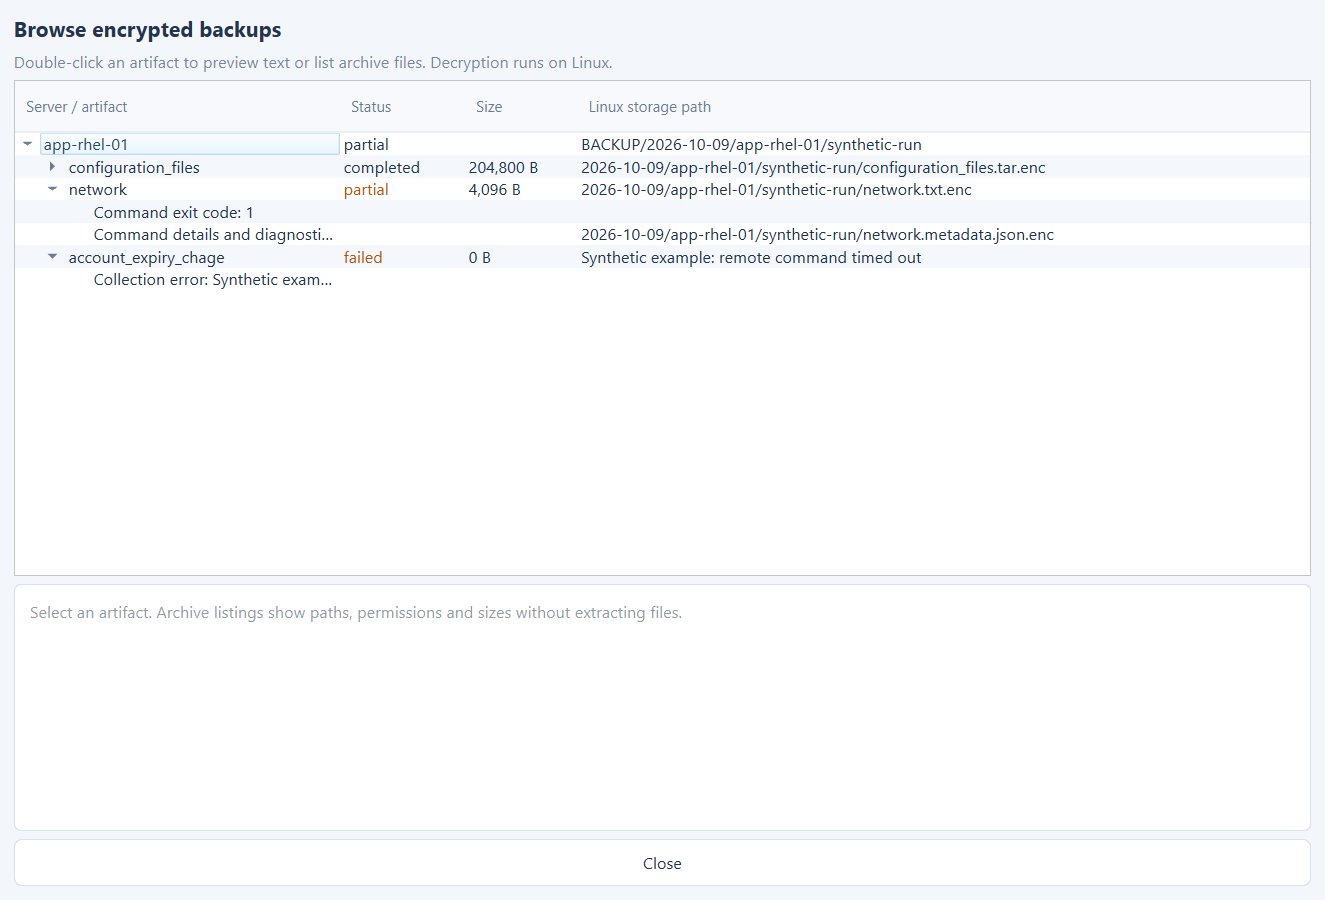
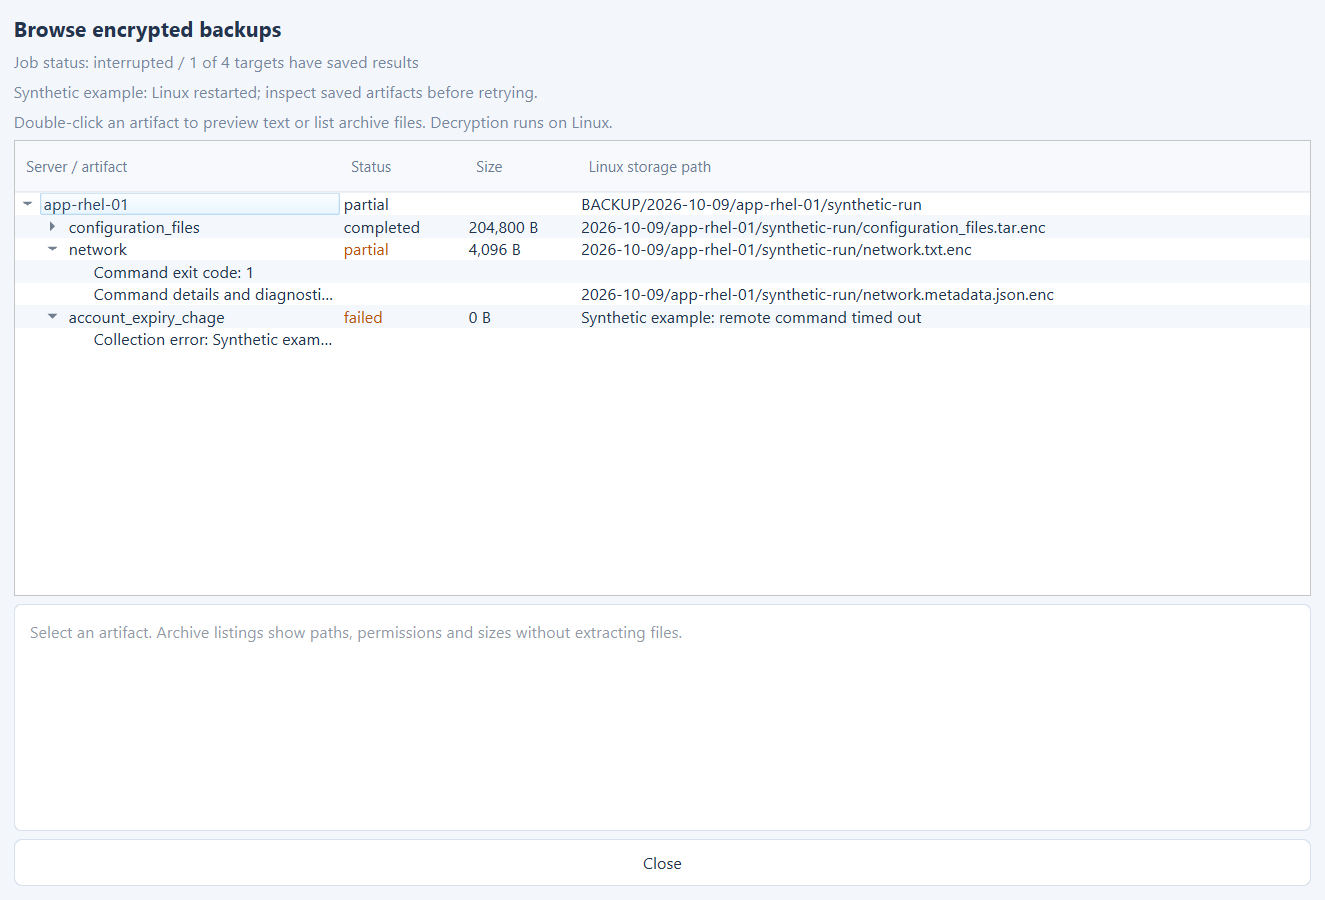
Show interrupted backup status and saved target counts in native details

diff --git a/src/desktop/main.py b/src/desktop/main.py
@@ -837,7 +837,7 @@ class Console(QMainWindow):
                     self.status_line.setText(f"{job.get('status', 'unknown')}: {len(rows)}/{job.get('total', '?')} target results available. " + job.get("message", ""))
                 return
             if job.get("kind") == "backup":
-                self.show_backup_results(rows); return
+                self.show_backup_results(rows, job); return
             if job.get("kind") == "monitoring":
                 self.display_resources(rows, job.get("finished_at", job.get("created_at", ""))); self.navigate(7); return
             if job.get("kind") == "security_audit":
@@ -873,13 +873,17 @@ class Console(QMainWindow):
         layout.addWidget(button("Close", dialog.accept))
         return dialog
 
-    def show_backup_results(self, rows):
-        self.backup_results_dialog(rows).exec()
+    def show_backup_results(self, rows, job=None):
+        self.backup_results_dialog(rows, job).exec()
 
-    def backup_results_dialog(self, rows):
+    def backup_results_dialog(self, rows, job=None):
         dialog = QDialog(self); dialog.setWindowTitle("Backup artifacts on Linux"); dialog.resize(1060, 720)
         layout = QVBoxLayout(dialog)
         layout.addWidget(label("Browse encrypted backups", "section"))
+        if job:
+            layout.addWidget(label(f"Job status: {job.get('status', 'unknown')} / {len(rows)} of {job.get('total', '?')} targets have saved results", "subtitle"))
+            if job.get("status") != "completed" and job.get("message"):
+                note = label(job["message"], "subtitle"); note.setWordWrap(True); layout.addWidget(note)
         layout.addWidget(label("Double-click an artifact to preview text or list archive files. Decryption runs on Linux.", "subtitle"))
         tree = QTreeWidget(); tree.setHeaderLabels(["Server / artifact", "Status", "Size", "Linux storage path"])
         tree.setStyleSheet("QTreeWidget { background: white; color: #20354d; alternate-background-color: #f4f7fb; } QTreeWidget::item:selected { background: #dbeafe; color: #172d48; }")
@@ -1005,7 +1009,8 @@ def main():
                  "path": prefix + "/network.txt.enc", "exit_code": 1},
                 {"name": "account_expiry_chage", "status": "failed",
                  "error": "Synthetic example: remote command timed out"},
-            ]}}])
+            ]}}], {"status": "interrupted", "total": 4,
+                    "message": "Synthetic example: Linux restarted; inspect saved artifacts before retrying."})
         preview.show()
     if args.page == "security" and (args.demo or args.mockup):
         preview = window.security_plan_dialog([

diff --git a/docs/wsl-progress.md b/docs/wsl-progress.md
@@ -437,3 +437,5 @@ GUI는 Linux 작업 접수 응답을 기다리는 동안 추가 클릭을 대기
 
 Activity의 생성 시각은 시간만이 아니라 날짜와 시간대를 포함한다. 일반 작업 상세에는 작업 요약과 결과를 함께 표시한다.
 완료되지 않은 연결 수집 이력을 열면 상태·전체 대상 대비 결과 수·서버 메시지를 안내해 일부 결과를 전체 완료로 해석하지 않도록 했다. 관련 화면 검증 10개 통과.
+
+백업 상세에도 작업 상태와 전체 대상 대비 저장된 결과 수, 중단 메시지를 표시한다. docs/images/backup-details-mockup.png를 합성 중단 예시로 갱신하고 렌더링을 확인했다. 기존 화면 검증 10개 통과.
